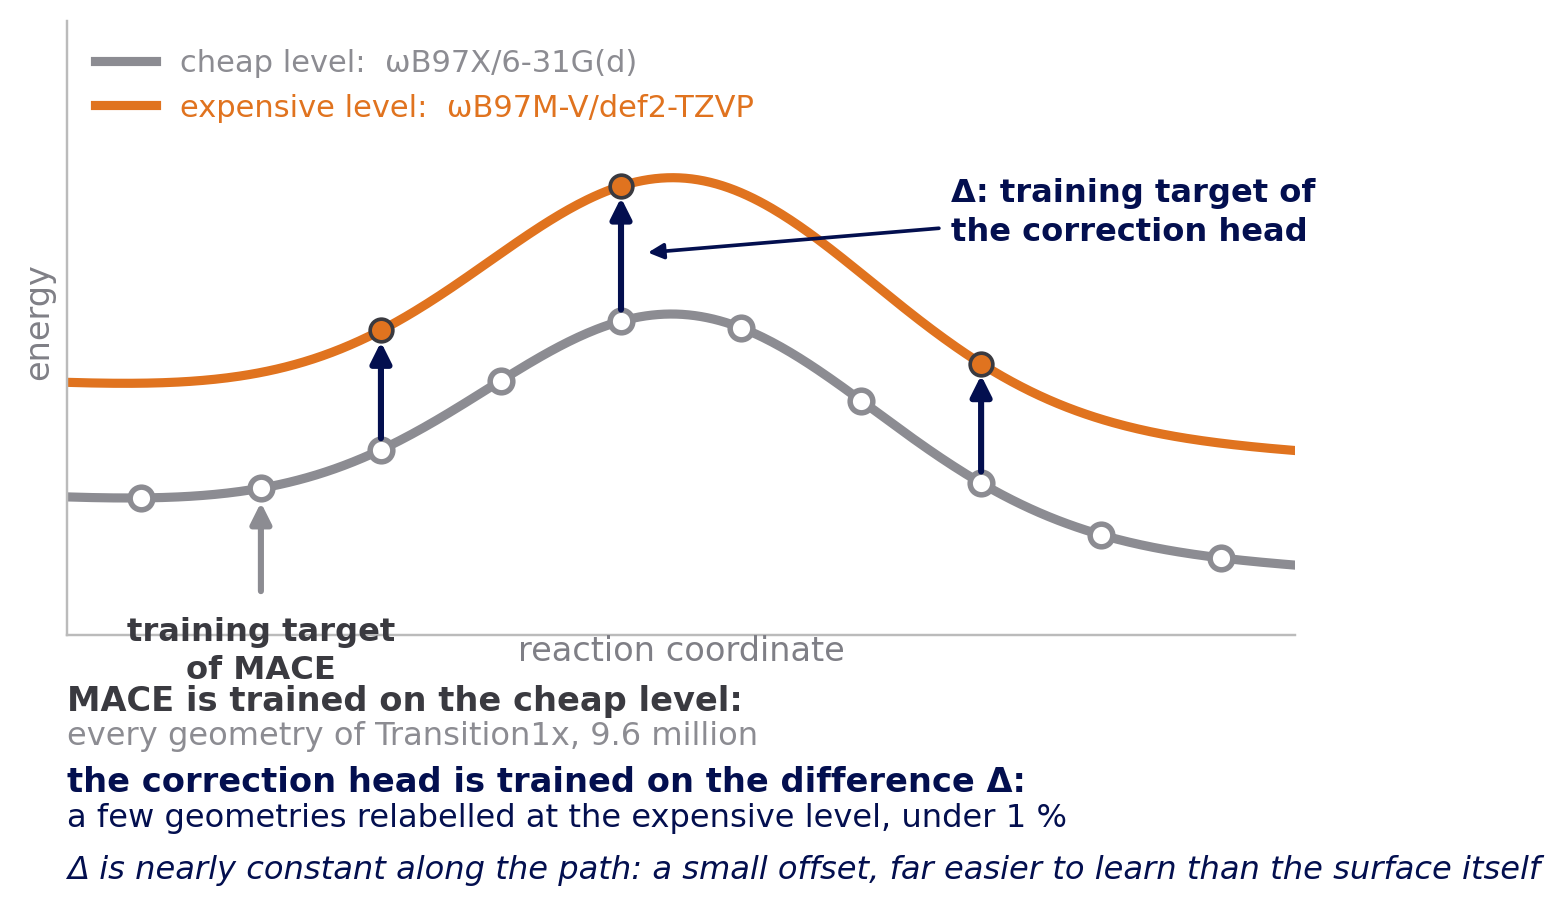
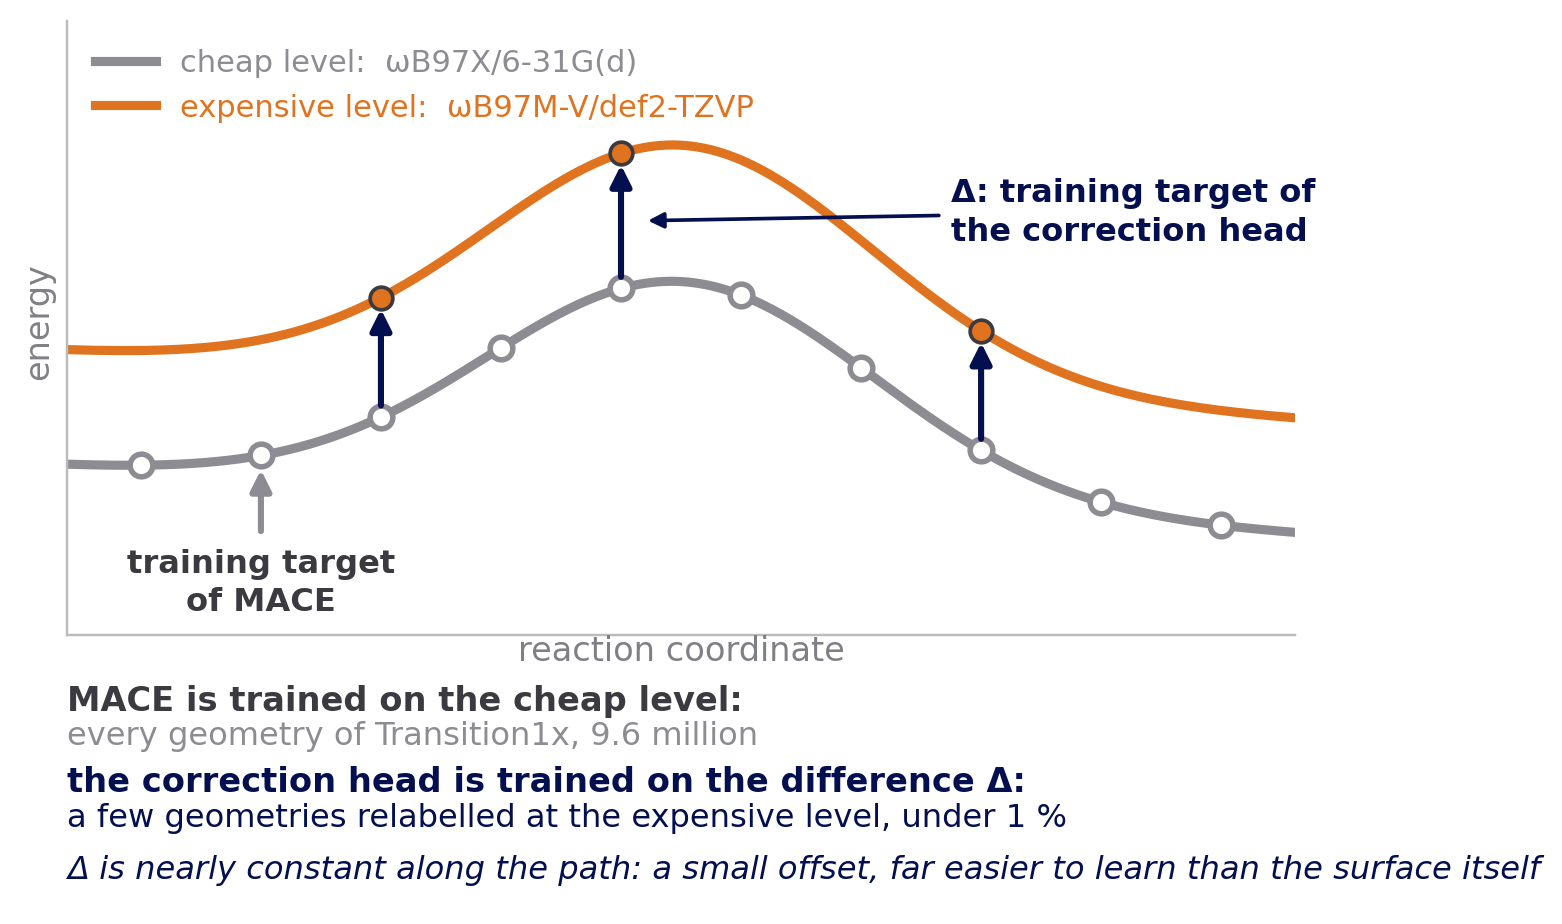
Defence talk: delta targets picture, MACE label inside the axes

Changed region(s): [[0.0307, 0.1515, 0.8297, 0.7576]]

diff --git a/docs/defence/draw_delta_targets.py b/docs/defence/draw_delta_targets.py
@@ -13,7 +13,7 @@ from matplotlib.patches import FancyArrowPatch
 OUT = "docs/defence/pics/"
 NEW, MID, DARK, NAVY, GREY = "#e0731f", "#7f7f86", "#3a3a40", "#030f4f", "#8c8c92"
 x = np.linspace(0, 1, 400)
-cheap = 0.8 * np.exp(-((x - 0.5) ** 2) / 0.05) - 0.25 * x
+cheap = 0.8 * np.exp(-((x - 0.5) ** 2) / 0.05) - 0.25 * x + 0.12
 gap = 0.42 + 0.08 * np.exp(-((x - 0.5) ** 2) / 0.04)           # nearly constant, a little larger at the barrier
 expensive = cheap + gap
 
@@ -30,8 +30,8 @@ xm = xs[4]; ym = 0.5 * (np.interp(xm, x, cheap) + np.interp(xm, x, expensive))
 ax.annotate(chr(916) + ": training target of" + chr(10) + "the correction head", (xm + 0.012, ym), xytext=(0.72, 1.05), fontsize=10.5, color=NAVY, fontweight="bold",
             ha="left", va="center", linespacing=1.3, arrowprops=dict(arrowstyle="-|>", color=NAVY, lw=1.2, shrinkB=4))
 xg = xs[1]; yg = np.interp(xg, x, cheap)
-ax.add_patch(FancyArrowPatch((xg, yg - 0.40), (xg, yg - 0.03), arrowstyle="-|>", mutation_scale=14, lw=2, color=GREY, zorder=5))
-ax.text(xg, yg - 0.47, "training target" + chr(10) + "of MACE", fontsize=10.5, color=DARK, fontweight="bold", ha="center", va="top", linespacing=1.3)
+ax.add_patch(FancyArrowPatch((xg, yg - 0.30), (xg, yg - 0.03), arrowstyle="-|>", mutation_scale=14, lw=2, color=GREY, zorder=5))
+ax.text(xg, yg - 0.34, "training target" + chr(10) + "of MACE", fontsize=10.5, color=DARK, fontweight="bold", ha="center", va="top", linespacing=1.3)
 # labels, below the plot
 ax.text(0.0, -0.74, "MACE is trained on the cheap level:", fontsize=11, color=DARK, fontweight="bold", va="center", transform=ax.transData)
 ax.text(0.0, -0.87, "every geometry of Transition1x, 9.6 million", fontsize=10.5, color=GREY, va="center")
